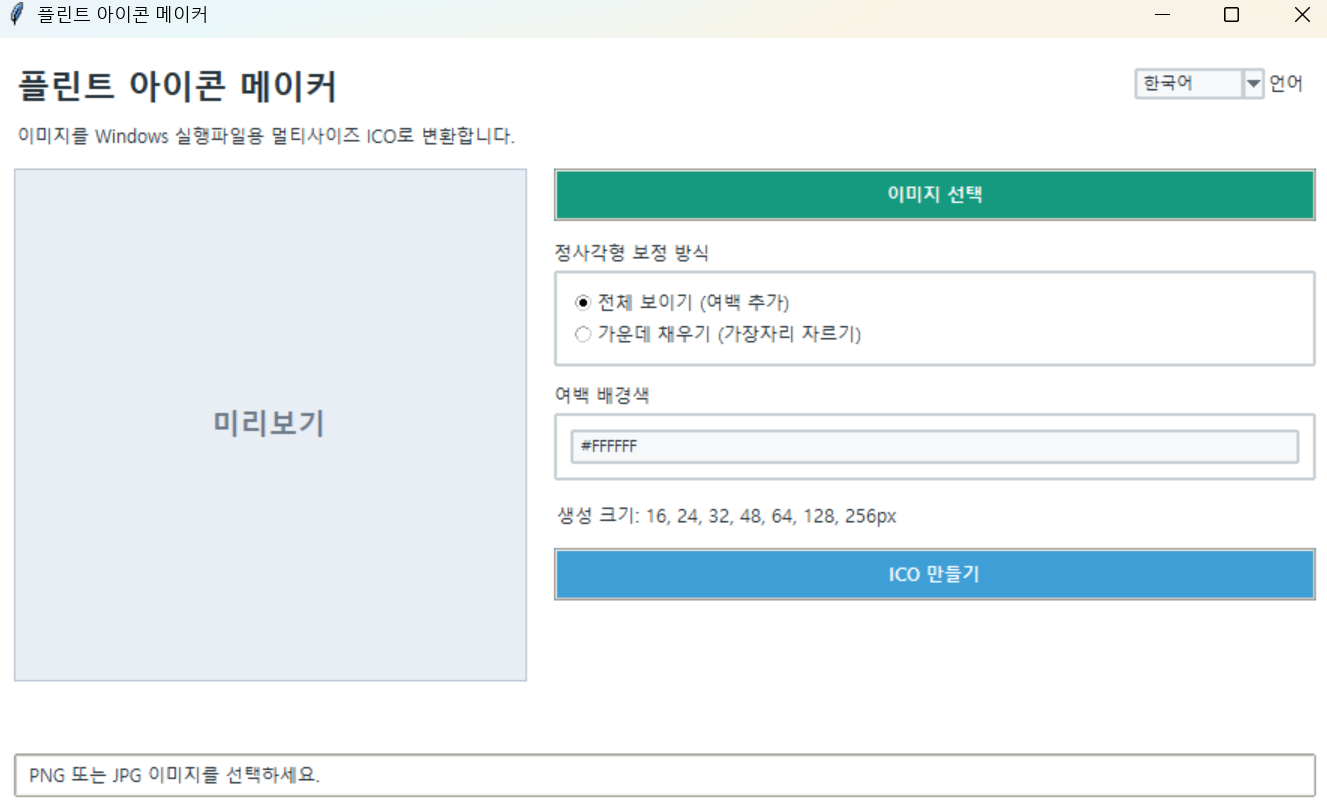
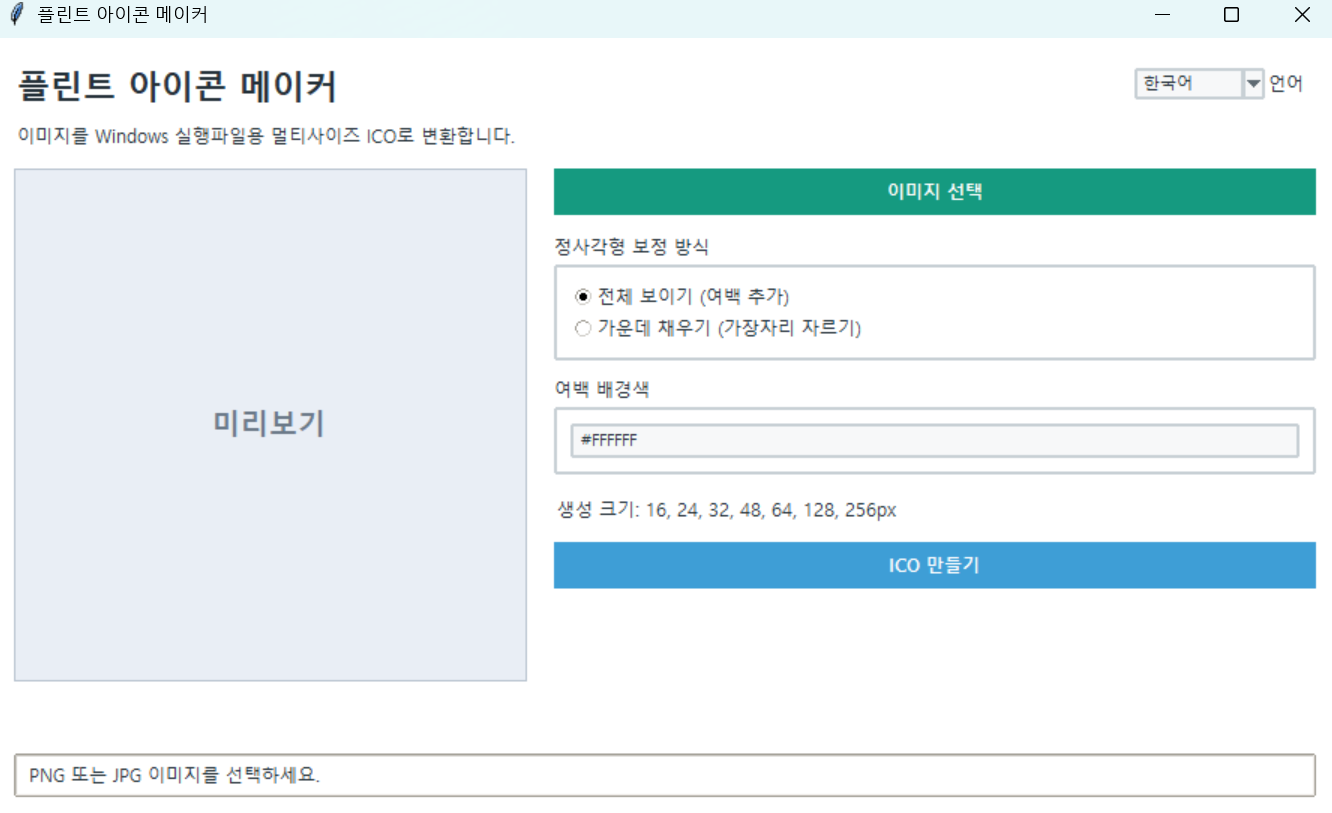
Update badamail: 8 files

diff --git a/toolbox/fim.html b/toolbox/fim.html
@@ -1,0 +1,106 @@
+<!doctype html>
+<html lang="ko">
+<head>
+  <meta charset="utf-8">
+  <meta name="viewport" content="width=device-width, initial-scale=1">
+  <title>플린트 아이콘 메이커 | 플린트의 공구함</title>
+  <meta name="description" content="PNG, JPG, WEBP, BMP 이미지를 Windows 실행파일용 멀티사이즈 ICO 파일로 변환하는 GUI 도구입니다.">
+  <meta name="robots" content="index, follow">
+  <meta property="og:site_name" content="Blackship">
+  <meta property="og:title" content="플린트 아이콘 메이커 | 플린트의 공구함">
+  <meta property="og:description" content="PNG, JPG, WEBP, BMP 이미지를 Windows 실행파일용 멀티사이즈 ICO 파일로 변환하는 GUI 도구입니다.">
+  <meta property="og:type" content="website">
+  <link rel="alternate" hreflang="ko" href="https://blackship.kr/toolbox/fim.html">
+  <link rel="alternate" hreflang="en" href="https://blackship.kr/en/toolbox/fim.html">
+  <link rel="alternate" hreflang="x-default" href="https://blackship.kr/toolbox/fim.html">
+  <link rel="icon" href="../favicon.ico" type="image/x-icon">
+  <link rel="stylesheet" href="../style.css">
+</head>
+<body>
+  <header class="site-header">
+    <a class="logo" href="../index.html">Blackship</a>
+    <nav class="nav">
+
+      <a href="../index.html">홈</a>
+      <a href="../hidden.html">💎 숨은 보물</a>
+      <a href="../value.html">💰 가성비 보물</a>
+      <a href="../popular.html">🔥 인기 보물</a>
+      <a href="../random.html">🎲 랜덤 보물</a>
+      <a href="../toolbox.html">🧰 공구함</a>
+      <a href="../badamail.html">바다메일</a>
+    </nav>
+  </header>
+
+  <main>
+    
+        <article class="detail toolbox-detail">
+          <div class="toolbox-detail-media">
+            <img src="images/fim.png" alt="플린트 아이콘 메이커" loading="lazy">
+          </div>
+          <div class="toolbox-detail-content">
+            <h1>플린트 아이콘 메이커</h1>
+            <p class="toolbox-detail-version">버전: 1.0.0</p>
+            <div class="toolbox-detail-description">
+              <h2>Flint Icon Maker</h2>
+<p>PNG, JPG, WEBP, BMP 이미지를 Windows 실행파일용 멀티사이즈 ICO 파일로 변환하는 GUI 도구입니다.</p>
+<h3>사용 방법</h3>
+<ol>
+<li>
+<p><code>이미지 선택</code>을 눌러 아이콘으로 만들 이미지를 선택합니다.</p>
+</li>
+<li>
+<p>정사각형 보정 방식을 선택합니다.</p>
+<ul>
+<li><code>전체 보이기</code>: 원본 전체를 유지하고 남는 공간에 여백을<br>
+    추가합니다.</li>
+<li><code>가운데 채우기</code>: 정사각형을 가득 채우고 가장자리를 일부<br>
+    잘라냅니다.</li>
+</ul>
+</li>
+<li>
+<p>전체 보이기를 사용할 경우 여백 배경색을 <code>#RRGGBB</code> 형식으로 입력합니다.</p>
+</li>
+<li>
+<p>미리보기를 확인합니다.</p>
+</li>
+<li>
+<p><code>ICO 만들기</code>를 눌러 저장 위치와 파일명을 지정합니다.</p>
+</li>
+</ol>
+<h3>주요 기능</h3>
+<ul>
+<li>PNG, JPG, JPEG, WEBP, BMP 이미지 지원</li>
+<li>정사각형 자동 보정</li>
+<li>전체 이미지 유지 또는 가운데 크롭 선택</li>
+<li>여백 배경색 지정</li>
+<li>16, 24, 32, 48, 64, 128, 256px 멀티사이즈 ICO 생성</li>
+<li>한국어·영어 화면 전환</li>
+<li>이미지 선택창, 저장창, 오류창, 완료 안내까지 이중 언어 지원</li>
+</ul>
+<h3>소스 코드 실행</h3>
+<p>필수 패키지 설치:</p>
+<pre><code class="language-bash">pip install pillow
+</code></pre>
+<p>실행:</p>
+<pre><code class="language-bash">python iconmaker.py
+</code></pre>
+<blockquote>
+<p><code>참고:</code> 실행 파일(EXE) 버전을 사용하는 경우에는 필수 패키지 설치나 python 명령을 실행할 필요가 없습니다.</p>
+</blockquote>
+            </div>
+            <div class="toolbox-detail-actions">
+              <a class="buy-button" href="https://github.com/flinthawke/toolbox/releases/download/fim-v1.0.0/fim.1.0.0.portable.zip">다운로드</a> <a class="badamail-link" href="https://github.com/flinthawke/toolbox/releases/tag/fim-v1.0.0" target="_blank" rel="noopener">GitHub에서 소스 보기</a>
+            </div>
+            <p class="toolbox-detail-back"><a class="badamail-link" href="../toolbox.html">공구함으로 돌아가기</a></p>
+          </div>
+        </article>
+        
+  </main>
+
+  <footer class="site-footer">
+    <p>본 프로그램은 있는 그대로(AS IS) 제공됩니다. 사용으로 인해 발생하는 데이터 손실이나 기타 문제에 대해서는 책임을 지지 않습니다.</p>
+    <p>중요한 파일은 반드시 백업한 후 사용하시기 바랍니다.</p>
+  </footer>
+  <img class="visitor-counter-tracker" src="https://hits.sh/blackship.kr.svg?label=visitors&amp;color=000000&amp;labelColor=000000" alt="" width="1" height="1" aria-hidden="true">
+</body>
+</html>

diff --git a/en/toolbox/fim.html b/en/toolbox/fim.html
@@ -1,0 +1,109 @@
+<!doctype html>
+<html lang="en">
+<head>
+  <meta charset="utf-8">
+  <meta name="viewport" content="width=device-width, initial-scale=1">
+  <title>Flint Icon Maker | Flint&#x27;s Toolbox</title>
+  <meta name="description" content="A GUI tool for converting PNG, JPG, WEBP, and BMP images into multi-size ICO files for Windows executables.">
+  <meta name="robots" content="index, follow">
+  <meta property="og:site_name" content="Blackship">
+  <meta property="og:title" content="Flint Icon Maker | Flint&#x27;s Toolbox">
+  <meta property="og:description" content="A GUI tool for converting PNG, JPG, WEBP, and BMP images into multi-size ICO files for Windows executables.">
+  <meta property="og:type" content="website">
+  <link rel="alternate" hreflang="ko" href="https://blackship.kr/toolbox/fim.html">
+  <link rel="alternate" hreflang="en" href="https://blackship.kr/en/toolbox/fim.html">
+  <link rel="alternate" hreflang="x-default" href="https://blackship.kr/toolbox/fim.html">
+  <link rel="icon" href="../favicon.ico" type="image/x-icon">
+  <link rel="stylesheet" href="../style.css">
+</head>
+<body>
+  <header class="site-header">
+    <a class="logo" href="../index.html">Blackship</a>
+    <nav class="nav">
+
+      <a href="../index.html">Home</a>
+      <a href="../hidden.html">💎 Hidden Treasures</a>
+      <a href="../value.html">💰 Value Treasures</a>
+      <a href="../popular.html">🔥 Popular Treasures</a>
+      <a href="../random.html">🎲 Random Treasure</a>
+      <a href="../toolbox.html">🧰 Toolbox</a>
+      <a href="../badamail.html">Sea Mail</a>
+    </nav>
+  </header>
+
+  <main>
+    
+        <article class="detail toolbox-detail">
+          <div class="toolbox-detail-media">
+            <img src="images/fim_en.png" alt="Flint Icon Maker" loading="lazy">
+          </div>
+          <div class="toolbox-detail-content">
+            <h1>Flint Icon Maker</h1>
+            <p class="toolbox-detail-version">Version: 1.0.0</p>
+            <div class="toolbox-detail-description">
+              <h2>Flint Icon Maker</h2>
+<p>A GUI tool for converting PNG, JPG, WEBP, and BMP images into multi-size ICO files for Windows executables.</p>
+<h3>How to Use</h3>
+<ol>
+<li>
+<p>Click <code>Select Image</code> and choose the image you want to convert into an icon.</p>
+</li>
+<li>
+<p>Select a square adjustment mode.</p>
+</li>
+<li>
+<p><code>Fit Entire Image</code>: Keeps the entire original image visible and adds padding to fill the remaining space.</p>
+</li>
+<li>
+<p><code>Center Crop</code>: Fills the square completely and crops part of the edges as needed.</p>
+</li>
+<li>
+<p>When using <code>Fit Entire Image</code>, enter the padding background color in <code>#RRGGBB</code> format.</p>
+</li>
+<li>
+<p>Check the preview.</p>
+</li>
+<li>
+<p>Click <code>Create ICO</code> and choose the save location and file name.</p>
+</li>
+</ol>
+<h3>Key Features</h3>
+<ul>
+<li>Supports PNG, JPG, JPEG, WEBP, and BMP images</li>
+<li>Automatic square adjustment</li>
+<li>Choose between keeping the entire image or center cropping</li>
+<li>Customizable padding background color</li>
+<li>Generates multi-size ICO files at 16, 24, 32, 48, 64, 128, and 256 px</li>
+<li>Korean and English interface switching</li>
+<li>Bilingual support for image selection, save dialogs, error messages, and completion notifications</li>
+</ul>
+<h3>Running from Source</h3>
+<p>Install the required package:</p>
+<p>```bash id="k6m2qa"<br>
+pip install pillow</p>
+<pre><code>
+Run:
+
+```bash id=&quot;n9v4xt&quot;
+python iconmaker.py
+</code></pre>
+<blockquote>
+<p><code>Note:</code> If you are using the executable (EXE) version, you do not need to install the required package or run the <code>python</code> command.</p>
+</blockquote>
+            </div>
+            <div class="toolbox-detail-actions">
+              <a class="buy-button" href="https://github.com/flinthawke/toolbox/releases/download/fim-v1.0.0/fim.1.0.0.portable.zip">Download</a> <a class="badamail-link" href="https://github.com/flinthawke/toolbox/releases/tag/fim-v1.0.0" target="_blank" rel="noopener">View source on GitHub</a>
+            </div>
+            <p class="toolbox-detail-back"><a class="badamail-link" href="../toolbox.html">Back to Toolbox</a></p>
+          </div>
+        </article>
+        
+  </main>
+
+  <footer class="site-footer">
+    <p>This program is provided AS IS, without any warranty. The author is not responsible for data loss or any other issues resulting from its use.</p>
+    <p>Please back up important files before using this program.</p>
+  </footer>
+  <img class="visitor-counter-tracker" src="https://hits.sh/blackship.kr.svg?label=visitors&amp;color=000000&amp;labelColor=000000" alt="" width="1" height="1" aria-hidden="true">
+</body>
+</html>

diff --git a/en/toolbox.html b/en/toolbox.html
@@ -48,6 +48,20 @@ It also contains a nuclear cannon, an anti-gravity cruise system, and a giant sq
             </div>
           </div>
         </article>
+        
+        <article class="product-card card toolbox-card">
+          <a class="toolbox-card-media" href="toolbox/fim.html">
+            <img src="toolbox/images/fim_en.png" alt="Flint Icon Maker" loading="lazy">
+          </a>
+          <div class="product-body card-body toolbox-card-body">
+            <h2><a href="toolbox/fim.html">Flint Icon Maker</a></h2>
+            <p>A GUI tool for converting PNG, JPG, WEBP, and BMP images into multi-size ICO files for Windows executables.</p>
+            <div class="toolbox-card-footer">
+              <p class="toolbox-card-version">Version: 1.0.0</p>
+              <a class="buy-button" href="toolbox/fim.html">View details</a>
+            </div>
+          </div>
+        </article>
         </section>
   </main>
 

diff --git a/toolbox.html b/toolbox.html
@@ -48,6 +48,20 @@
             </div>
           </div>
         </article>
+        
+        <article class="product-card card toolbox-card">
+          <a class="toolbox-card-media" href="toolbox/fim.html">
+            <img src="toolbox/images/fim.png" alt="플린트 아이콘 메이커" loading="lazy">
+          </a>
+          <div class="product-body card-body toolbox-card-body">
+            <h2><a href="toolbox/fim.html">플린트 아이콘 메이커</a></h2>
+            <p>PNG, JPG, WEBP, BMP 이미지를 Windows 실행파일용 멀티사이즈 ICO 파일로 변환하는 GUI 도구입니다.</p>
+            <div class="toolbox-card-footer">
+              <p class="toolbox-card-version">버전: 1.0.0</p>
+              <a class="buy-button" href="toolbox/fim.html">설명 및 설치 방법</a>
+            </div>
+          </div>
+        </article>
         </section>
   </main>
 
